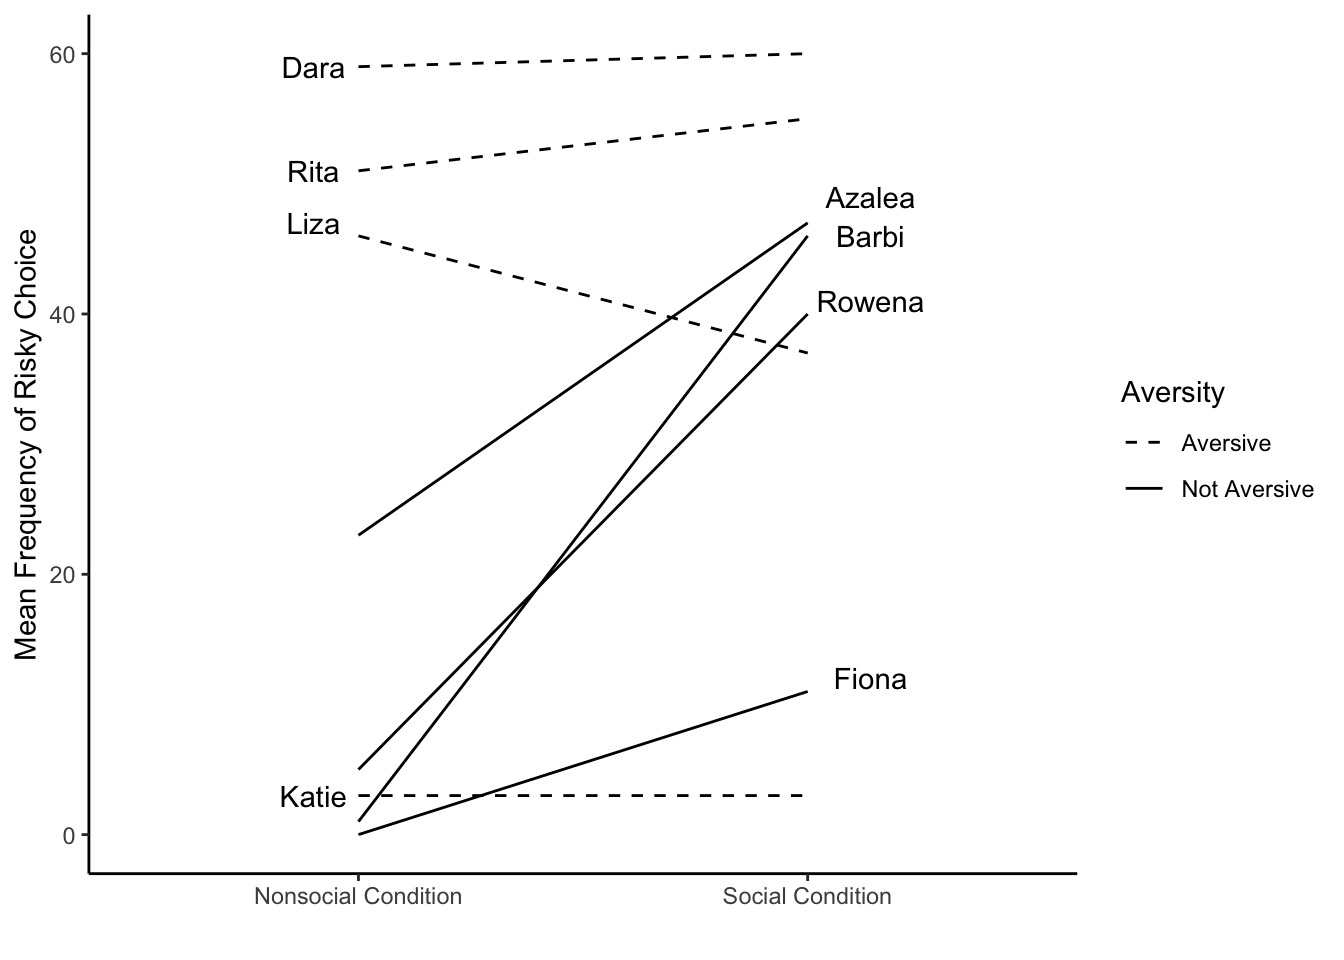
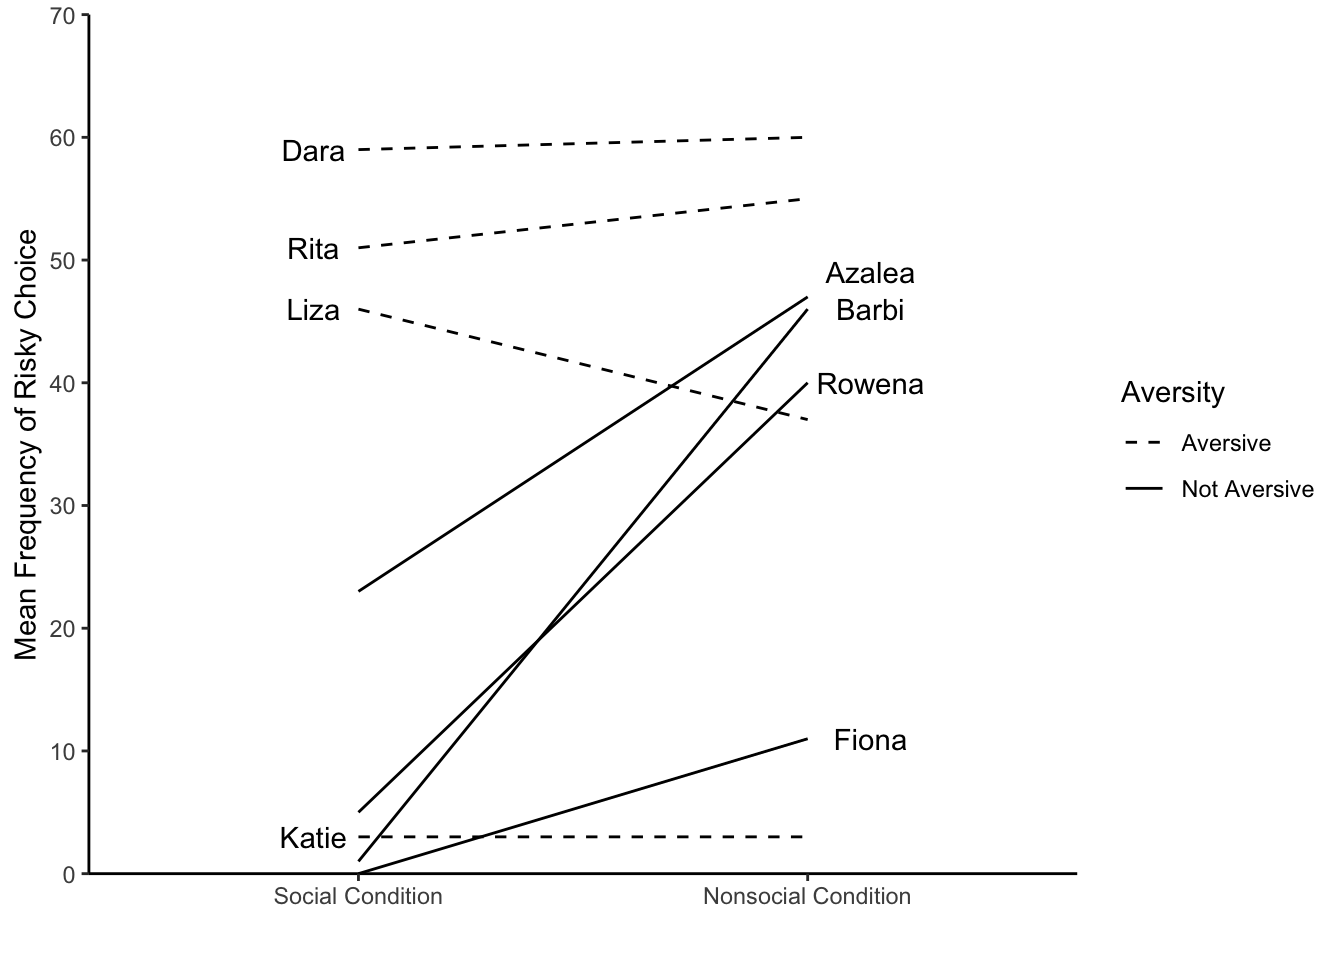
perfected q1

diff --git a/docs/DataVis.html b/docs/DataVis.html
@@ -414,33 +414,23 @@ div.tocify {
 <p><img src="datavis_figs/Calcutt1.png" width="600px" /></p>
 <p>Figure 1</p>
 <pre class="r"><code>Names &lt;- rep(c(&quot;Dara&quot;, &quot;Rita&quot;,&quot;Liza&quot;, &quot;Katie&quot;, &quot;Azalea&quot;,&quot;Barbi&quot;,&quot;Rowena&quot;,&quot;Fiona&quot;),each=2)
-MF &lt;- c(60,59,55,51,37,46,3,3,47,23,46,1,40,5,11,0)
+Names &lt;- factor(Names,levels=Names[c(1,3,5,7,9,11,13,15)])
+MF &lt;- c(59,60,51,55,46,37,3,3,23,47,1,46,5,40,0,11)
 Condition &lt;- rep(c(&quot;Social Condition&quot;, &quot;Nonsocial Condition&quot;),4)
+Condition &lt;- factor(Condition, levels=Condition[c(1,2)])
 Aversity &lt;- rep(c(&quot;Aversive&quot;,&quot;Not Aversive&quot;), each=8)
+Aversity &lt;- factor(Aversity, levels=Aversity[c(1,9)])
 new_df &lt;- data.frame(Names, Condition, Aversity, MF)
-new_df</code></pre>
-<pre><code>##     Names           Condition     Aversity MF
-## 1    Dara    Social Condition     Aversive 60
-## 2    Dara Nonsocial Condition     Aversive 59
-## 3    Rita    Social Condition     Aversive 55
-## 4    Rita Nonsocial Condition     Aversive 51
-## 5    Liza    Social Condition     Aversive 37
-## 6    Liza Nonsocial Condition     Aversive 46
-## 7   Katie    Social Condition     Aversive  3
-## 8   Katie Nonsocial Condition     Aversive  3
-## 9  Azalea    Social Condition Not Aversive 47
-## 10 Azalea Nonsocial Condition Not Aversive 23
-## 11  Barbi    Social Condition Not Aversive 46
-## 12  Barbi Nonsocial Condition Not Aversive  1
-## 13 Rowena    Social Condition Not Aversive 40
-## 14 Rowena Nonsocial Condition Not Aversive  5
-## 15  Fiona    Social Condition Not Aversive 11
-## 16  Fiona Nonsocial Condition Not Aversive  0</code></pre>
-<pre class="r"><code>library(ggplot2)
+
+library(ggplot2)
 ggplot(new_df, aes(x=Condition, y=MF, group=Names))+
   geom_line(aes(linetype=Aversity))+
+  scale_y_continuous(breaks=c(0,10,20,30,40,50,60,70),
+                     limits=c(0,70),
+                     expand = c(0, 0))+
   scale_linetype_manual(values=c(&quot;dashed&quot;,&quot;solid&quot;))+
-  geom_text(label=Names, y=(MF-c(1,100,4,100,-10,100,0,100,100,-26,100,-45,100,-36,100,-12)), x=rep(c(0.9,2.14),times=8))+
+  geom_text(label=Names, y=(c(59,100,51,100,46,100,3,100,100,49,100,46,100,40,100,11)),
+            x=rep(c(0.9,2.14),times=8))+
   theme_classic()+
   labs(x=&quot; &quot;,y=&quot;Mean Frequency of Risky Choice&quot;)</code></pre>
 <p><img src="DataVis_files/figure-html/eval_false-1.png" width="672" /></p>
